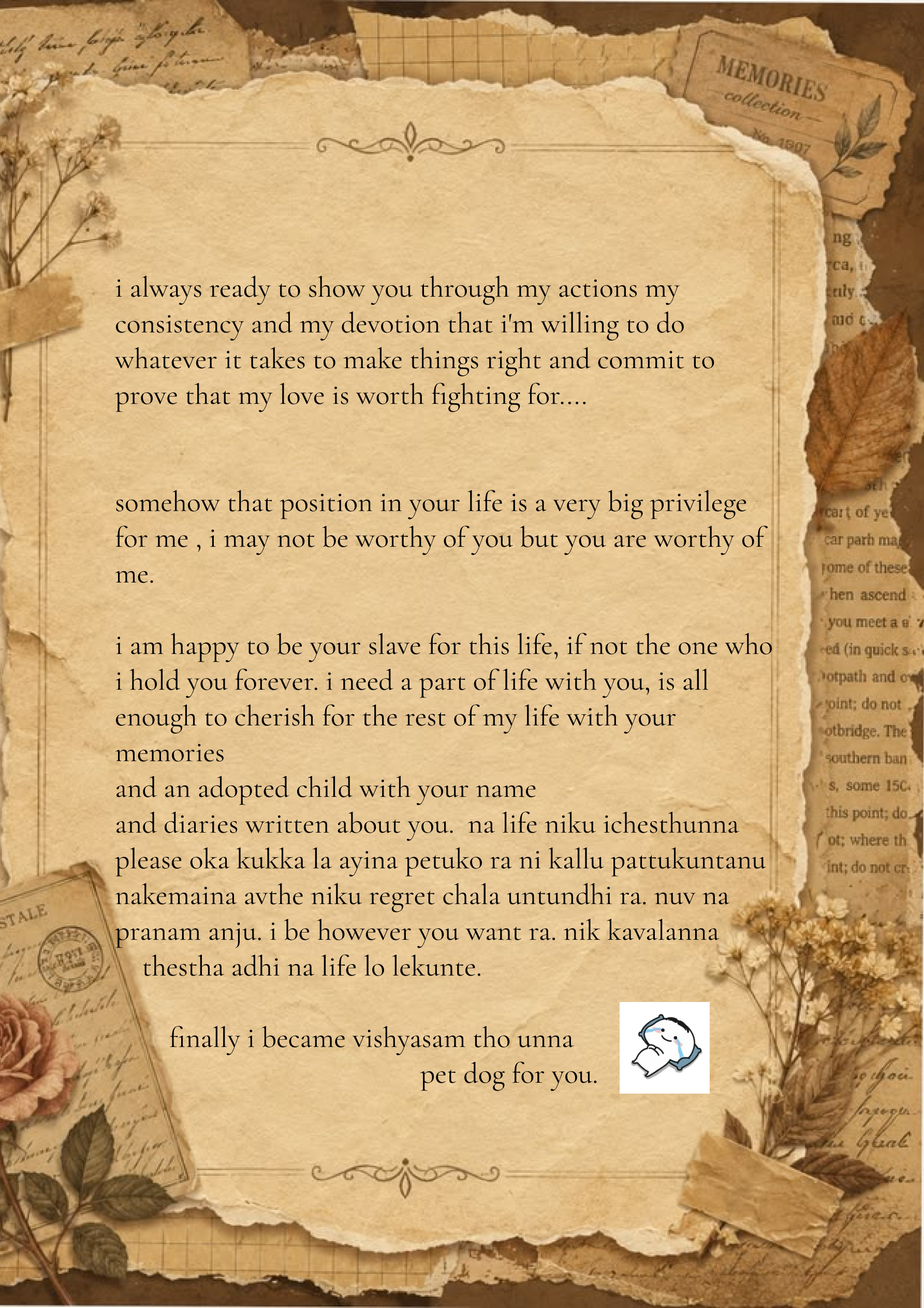
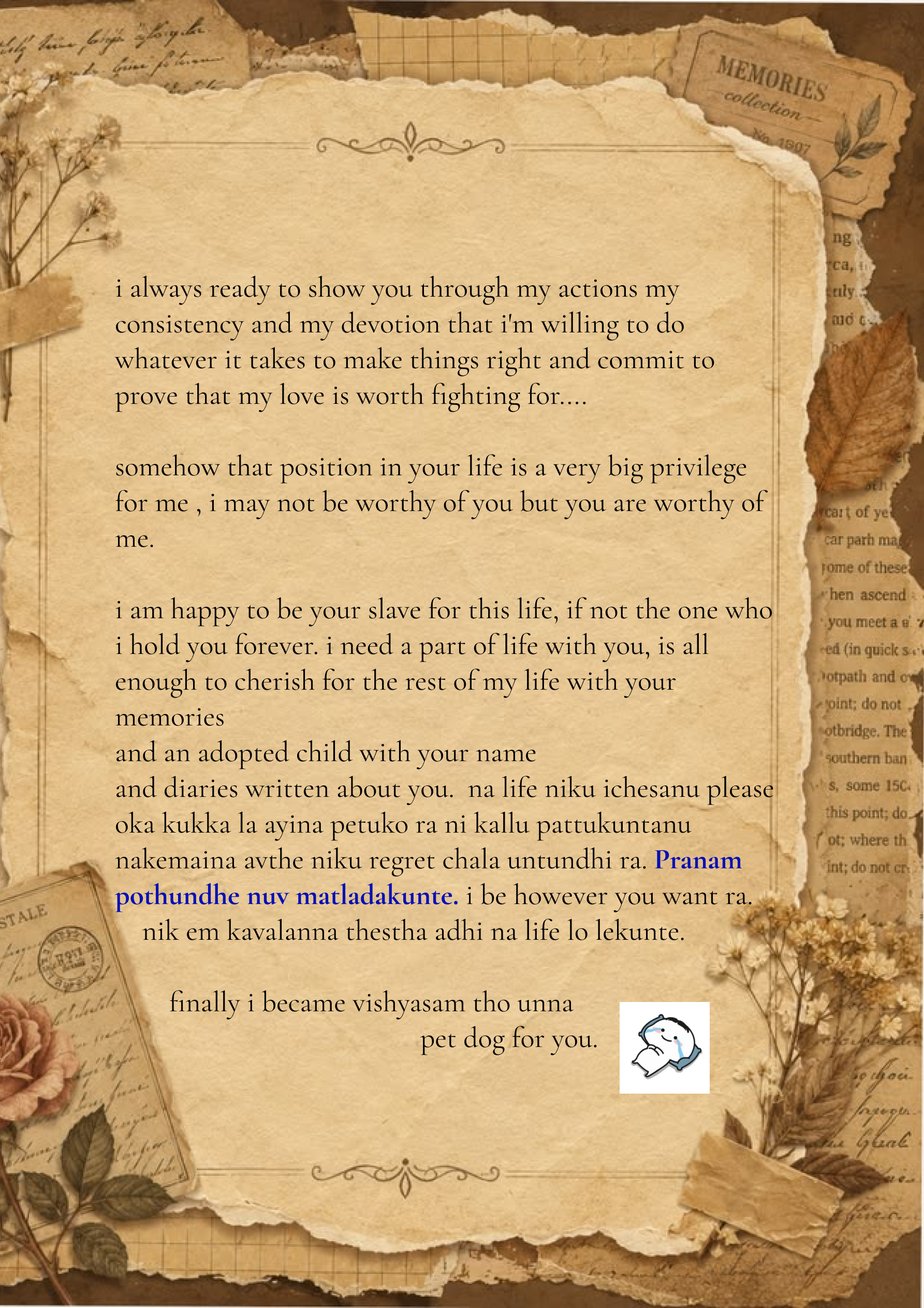
Updated book images

Changed region(s): [[0.1232, 0.3397, 0.8319, 0.8337], [0.7703, 0.5867, 0.8319, 0.6176]]

diff --git a/src/App.jsx b/src/App.jsx
@@ -122,7 +122,7 @@ function App() {
     return (
       <div className="loading-screen">
         <h1>For Anju ❤</h1>
-        <p>Every page holds a piece of my heart.</p>
+        <p>This won't take long, smile first :)</p>
         <div className="loader"></div>
       </div>
     );
